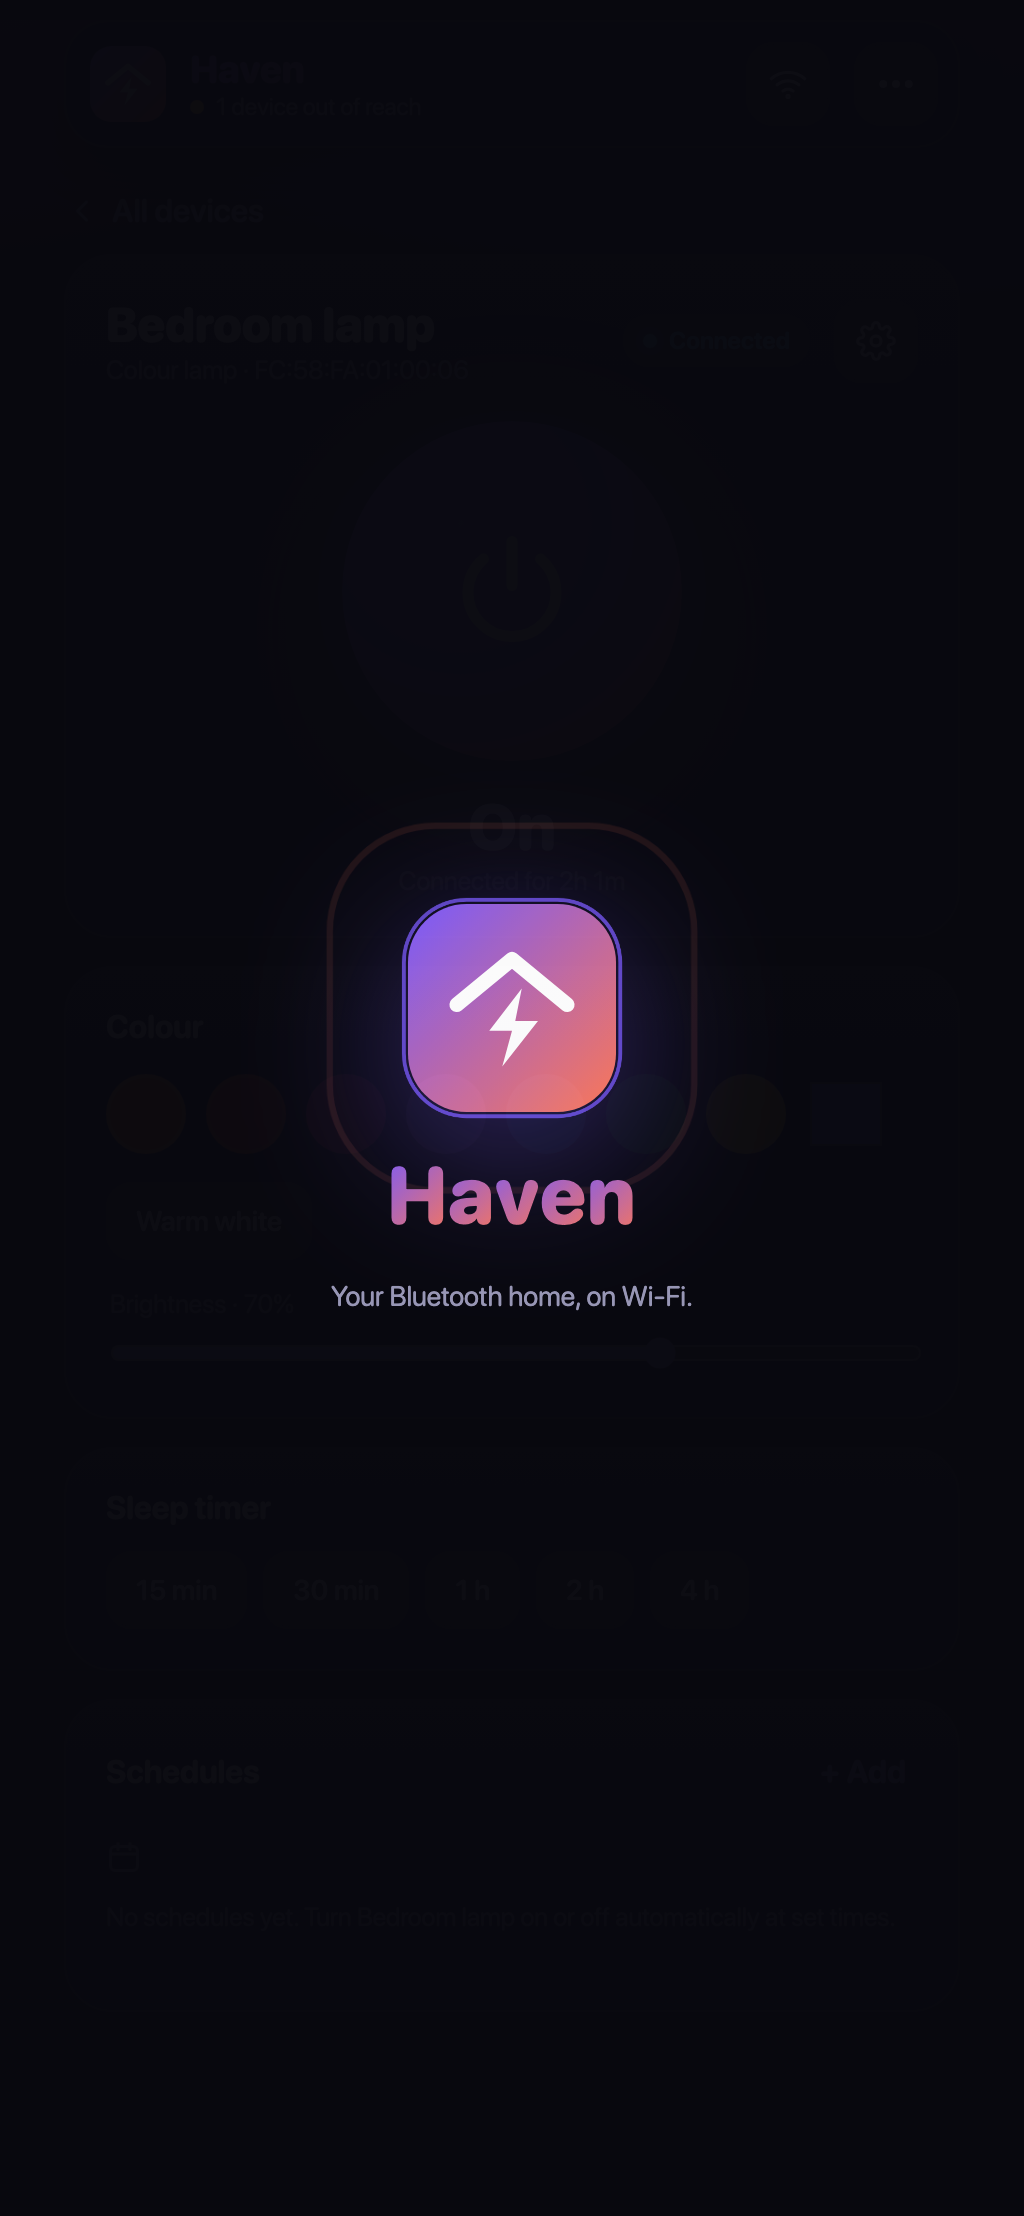
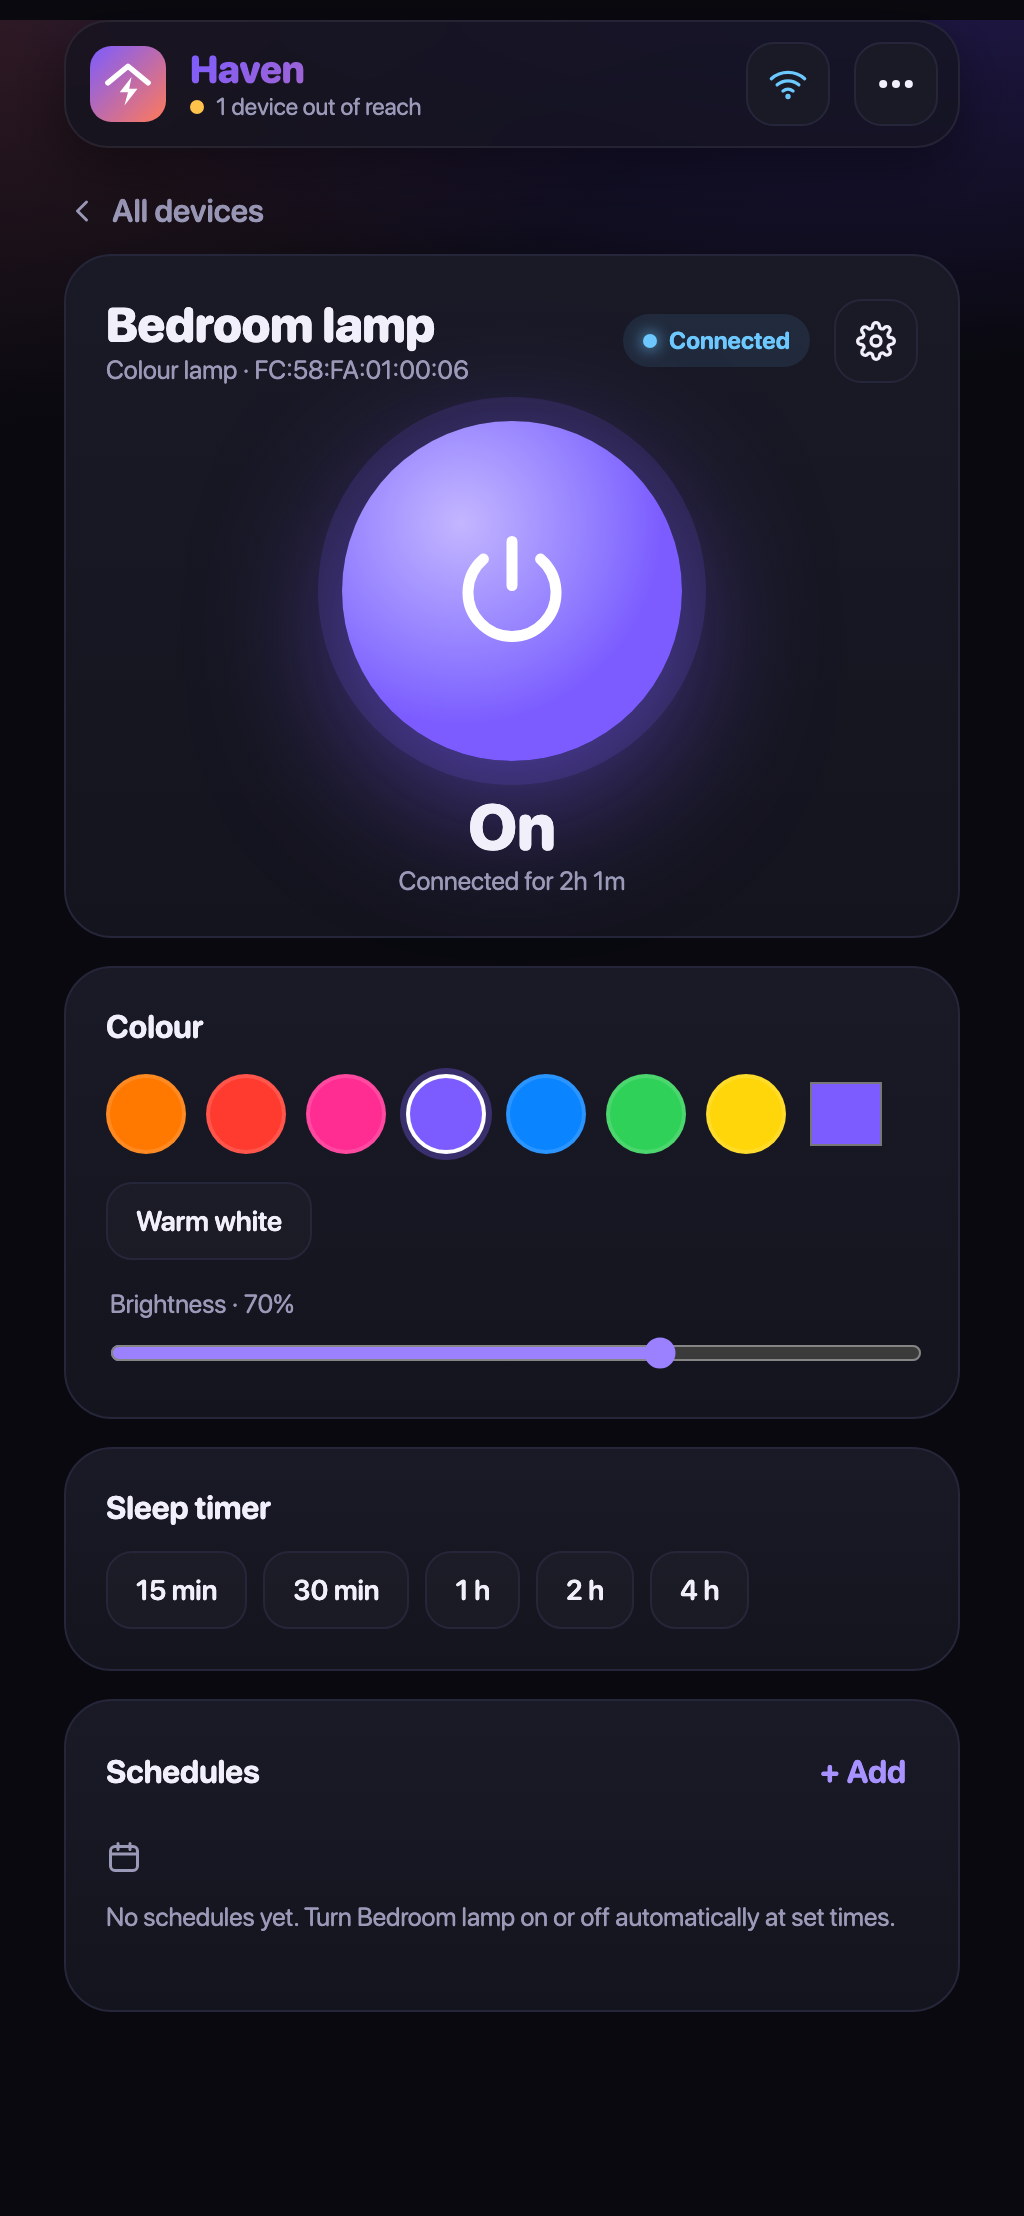
Lamp page: power button glows in the lamp's colour, selected swatch ringed

diff --git a/firmware/home_bridge/web_app.h b/firmware/home_bridge/web_app.h
@@ -212,14 +212,14 @@ function deviceView(){const d=dev();if(!d){view='home';return homeView()}
  let h=`<button class=back onclick="go('home')">${P(I.back,18)} All devices</button>
  <section class=card><div class=row><div class=sp1><h2 style="margin:0">${esc(d.name)}</h2><div class="mute small">${plug?'Smart plug':'Colour lamp'} · ${esc(d.address.toUpperCase())}</div></div>
  <span class="pill ${d.linked?'ok':'warn'}"><i class="dot ${d.linked?'ok':'warn'}"></i>${d.linked?'Connected':'Searching…'}</span><button class=ib onclick="devSettings()">${P(I.gear,20)}</button></div>
- <button class="power ${d.on&&d.linked?'on':''}" ${d.linked?'':'disabled'} onclick="setDev(${d.id},{on:${d.on?0:1}})">${P(I.power,66)}</button>
+ <button class="power ${d.on&&d.linked?'on':''}" ${d.linked?'':'disabled'} style="${lampGlow(d)}" onclick="setDev(${d.id},{on:${d.on?0:1}})">${P(I.power,66)}</button>
  <div class=big>${!d.linked?'Out of reach':d.on?'On':'Off'}</div>
  <div class="center mute small">${!d.linked?`Make sure it has power and is within ~10 m.${d.reconnects?' Reconnected '+d.reconnects+'×.':''}`:'Connected for '+fmtDur(d.linkedFor)}</div></section>`;
  if(plug)h+=`<section class=card><div class=sec><h3>Energy</h3><span class="mute small">last 24 h</span></div>
  <div class=stats><div class=stat><b>${d.linked?fmtW(d.powerMw):'—'}</b><span>Now</span></div><div class=stat><b>${fmtWh(d.todayWh)}</b><span>Today</span></div><div class=stat><b>${fmtWh(d.yesterdayWh)}</b><span>Yesterday</span></div></div>
  <svg class=chart id=chart viewBox="0 0 300 150" preserveAspectRatio=none></svg><div class=axis><span>24 h ago</span><span>12 h</span><span>now</span></div></section>`;
  else h+=`<section class=card><h3>Colour</h3><div class=swatches style="margin:14px 0">${['ff7800','ff3b30','ff2d92','7c5cff','0a84ff','30d158','ffd60a'].map(c=>
- `<button class=swatch style="background:#${c}" onclick="setDev(${d.id},{color:'${c}'})" aria-label="#${c}"></button>`).join('')}<input type=color value="#${d.color}" onchange="setDev(${d.id},{color:this.value.slice(1)})"></div>
+ `<button class=swatch style="background:#${c}${!d.white&&d.color==c?';border-color:#fff;box-shadow:0 0 0 3px #'+c+'55':''}" onclick="setDev(${d.id},{color:'${c}'})" aria-label="#${c}"></button>`).join('')}<input type=color value="#${d.color}" onchange="setDev(${d.id},{color:this.value.slice(1)})"></div>
  <button class="chip ${d.white?'on':''}" onclick="setDev(${d.id},{white:1})">Warm white</button><label>Brightness · ${d.brightness}%</label>
  <input type=range min=5 max=100 value=${d.brightness} onchange="setDev(${d.id},{brightness:this.value})"></section>`;
  const left=d.offAt?d.offAt-now():0;
@@ -231,6 +231,9 @@ function deviceView(){const d=dev();if(!d){view='home';return homeView()}
  <div class=days>${daysText(r.days)}</div></div><button class="sw ${r.enabled?'on':''}" onclick="toggleRule(${i})"></button></div>`;
  if(!S.system.time)h+=`<div class="small" style="color:var(--warn);margin-top:10px">Waiting for the clock to sync before schedules can run.</div>`;
  return h+'</section>'}
+// Lamps glow in their own colour (warm white = amber) instead of the brand gradient.
+function lampGlow(d){if(d.kind=='plug'||!d.on||!d.linked)return'';const c=d.white?'#FFB35C':'#'+d.color;
+ return`background:radial-gradient(circle at 35% 30%,color-mix(in srgb,${c} 45%,#fff),${c} 62%);box-shadow:0 0 0 12px ${c}26,0 20px 70px ${c}88`}
 function daysText(m){if(m==127)return'Every day';if(m==31)return'Weekdays';if(m==96)return'Weekends';return DAYN.filter((_,i)=>m>>i&1).join(' · ')}
 function networkView(){const s=S.system,[b,q,c]=signal(s.rssi),setup=S.mode=='setup';
  return`<button class=back onclick="go('home')">${P(I.back,18)} Home</button>
